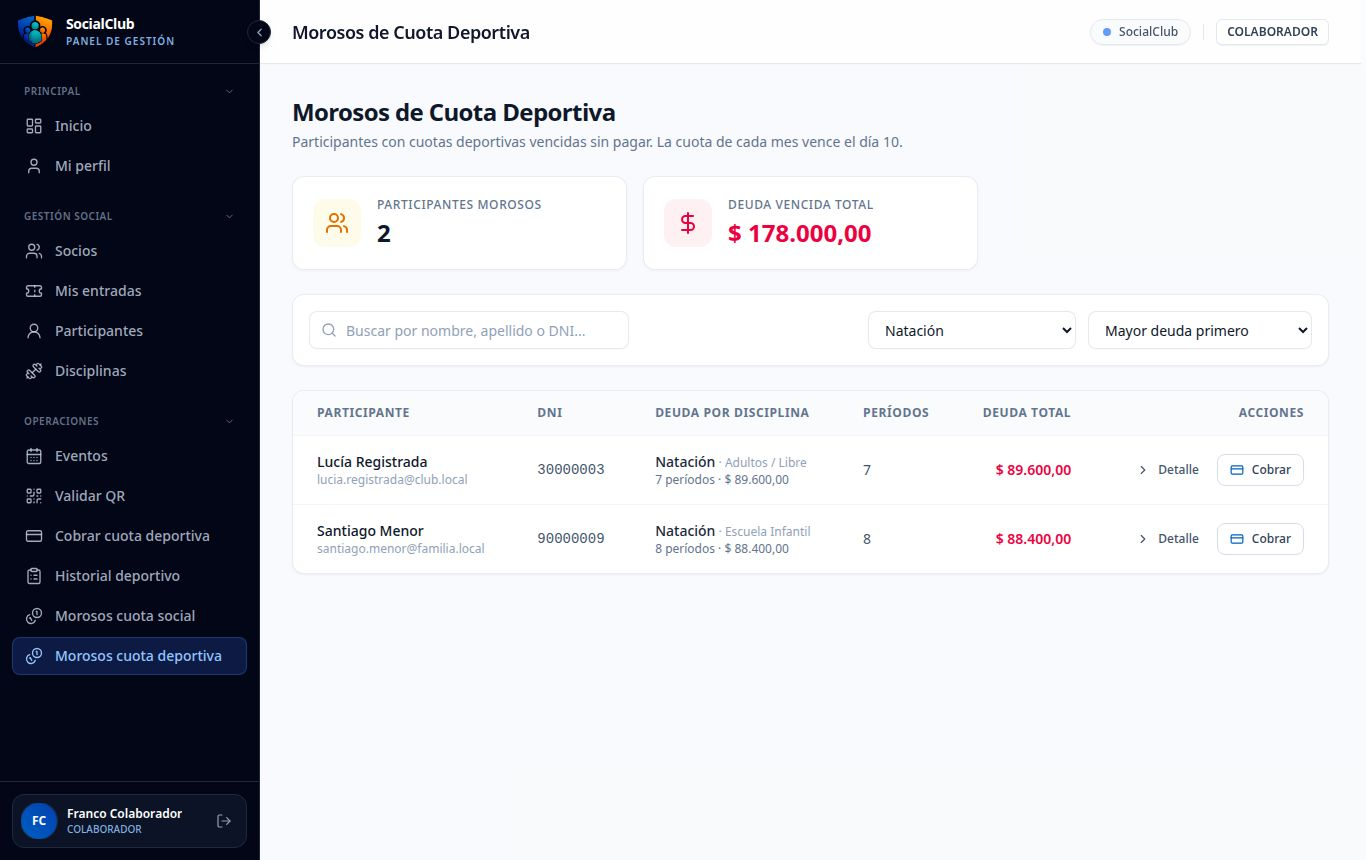
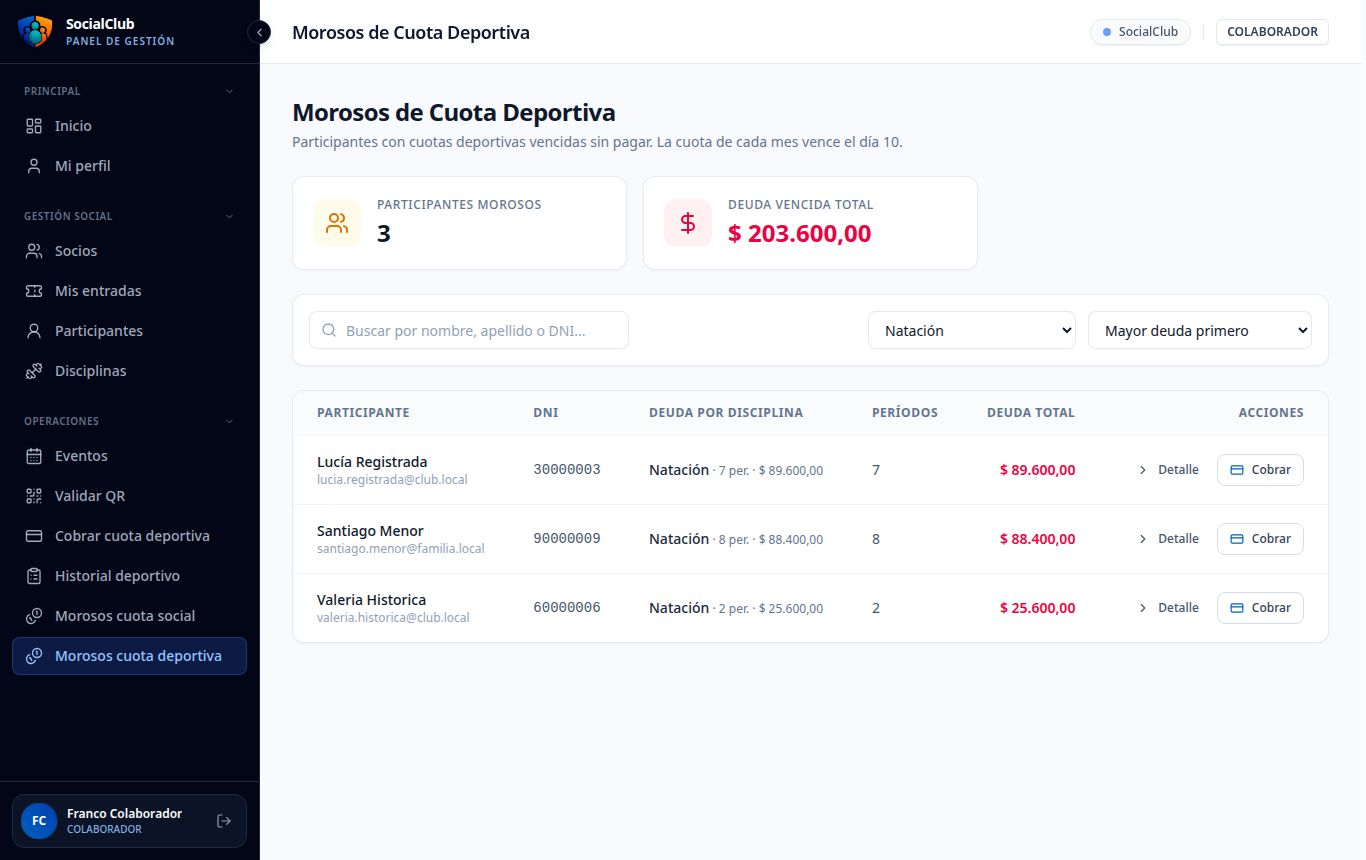
docs[US-23]: evidencia con un moroso en cuatro disciplinas y la fila compacta
Capturas regeneradas: la fila muestra dos disciplinas y «+N disciplinas más», y el detalle se abre con las cuatro. Para mostrarlo se inscribió a Valeria en Natación y Gimnasio en la base de pruebas (indicado en el README). EJ-162, EJ-166, EJ-169 y EJ-170 actualizadas.

diff --git a/docs/pruebas/evidencias/US-23/README.md b/docs/pruebas/evidencias/US-23/README.md
@@ -5,11 +5,17 @@ Corrida del 10/10/2026 contra la API y el frontend locales (ramas
 **Hoy es 10/10**: la cuota de octubre todavía no venció (vence el día 10 y es
 deuda desde el 11), así que el último período adeudado de cada moroso es 09/2026.
 
+**Datos agregados para la evidencia:** el seed no tiene a nadie que deba en más
+de dos disciplinas. A Valeria (60000006), que ya debía Fútbol Femenino y Pelota
+Paleta, se la inscribió por la API en Natación y Gimnasio y se fecharon esas
+inscripciones al 01/08/2026 en la base de pruebas, para que tengan cuotas
+vencidas.
+
 | Archivo | Qué muestra | Casos |
 |---|---|---|
-| `01-listado.jpg` | Listado como colaborador: resumen (6 morosos, deuda vencida total), y por moroso nombre, DNI, deuda por disciplina, períodos y total. Valeria debe Fútbol Femenino y Pelota Paleta (dada de baja) por separado | TC-200, TC-201, TC-208, TC-209 |
-| `02-detalle.jpg` | Detalle desplegado: cada cuota con período, vencimiento (día 10), importe y estado «Vencida · impaga», por disciplina | TC-202, TC-208 |
-| `03-filtro-natacion.jpg` | Filtro por disciplina «Natación»: solo esos morosos y su deuda de Natación | TC-205 |
+| `01-listado.jpg` | Listado como colaborador: resumen (6 morosos, deuda vencida total) y, por moroso, nombre, DNI, deuda por disciplina (una línea cada una), períodos y total. Valeria debe en 4 disciplinas: la fila muestra 2 y «+2 disciplinas más», sin crecer | TC-200, TC-201, TC-208 |
+| `02-detalle.jpg` | Detalle de Valeria abierto desde «+2 disciplinas más»: las 4 disciplinas por separado, cada cuota con período, vencimiento (día 10), importe y estado «Vencida · impaga»; Pelota Paleta marcada «Dada de baja» | TC-202, TC-208, TC-209 |
+| `03-filtro-natacion.jpg` | Filtro por disciplina «Natación»: solo esos morosos y solo su deuda de Natación (Valeria figura con $25.600, no con su total) | TC-205 |
 | `04-orden-periodos.jpg` | Orden «Menos períodos adeudados» | TC-207 |
 | `05-busqueda-dni.jpg` | Búsqueda por DNI (90000009) | TC-206 |
 | `06-cobrar-desde-morosos.jpg` | «Cobrar» abre el cobro con el DNI cargado y buscado (como ADMIN; ver nota) | TC-211 |
